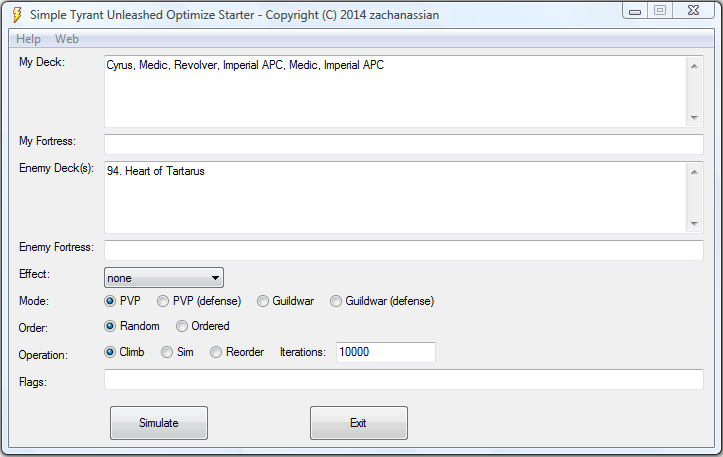
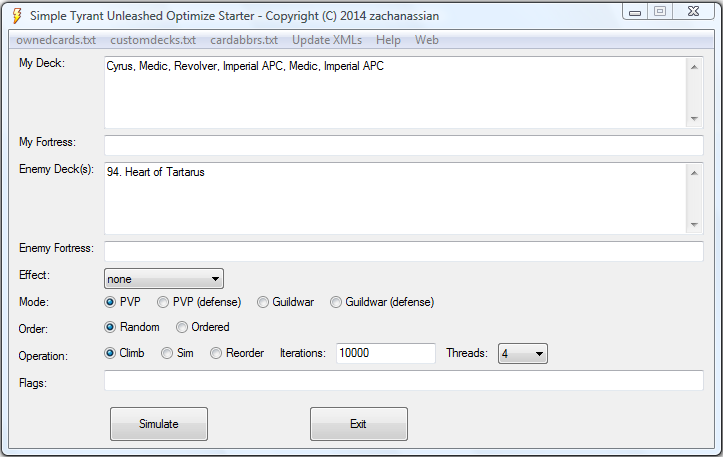
new screenshot due to new update xml

diff --git a/install.html b/install.html
@@ -80,11 +80,16 @@ Limitation of Liability</a>.</p>
 <p>Extract the ZIP-file. If you know how to use the command shell open it and navigate to the folder containing 
 <code>tu_optimze.exe</code>.Now you can start your first simulation. Have fun.</p>
 <p>The ZIP-File contains a version of cards.xml and missions.xml. However these files get outdated if new content is 
-releases. To update the files save <a href="http://mobile.tyrantonline.com/assets/cards.xml">cards.xml</a> 
+releases.</p>
+<p>Easiest way to update the files if to use the menu entry <code>Update XMLs</code> in <code>SimpleTUOptimizeStarter.exe</code></p>. 
+<p>To manually update the files save <a href="http://mobile.tyrantonline.com/assets/cards.xml">cards.xml</a> 
 and <a href="http://mobile.tyrantonline.com/assets/missions.xml">missions.xml</a>
 to the <code>data</code> folder. Right mouse click on the link above and <code>Save target as...</code> 
-normally helps here. The links provided above directly refer to the same files the TU app uses. If new cards or missions are available in the 
-TU app these files contain the same information.</p>
+normally helps here.</p>
+<p>The update and the links above directly refer to the same files the TU app uses. If new cards or missions are available in the 
+TU app then this new content is also available in <code>tu_optimize</code> after the update. 
+<p><strong>Important information</strong>: if new skills are added
+this update won't help. For new skills an updated version of <code>tu_optimize</code> is needed.</p>
 
 <h2>
 <a name="simpleui" class="anchor" href="#simpleui"><span class="octicon octicon-link"></span></a>Tyrant Unleashed Optimizer Starter
